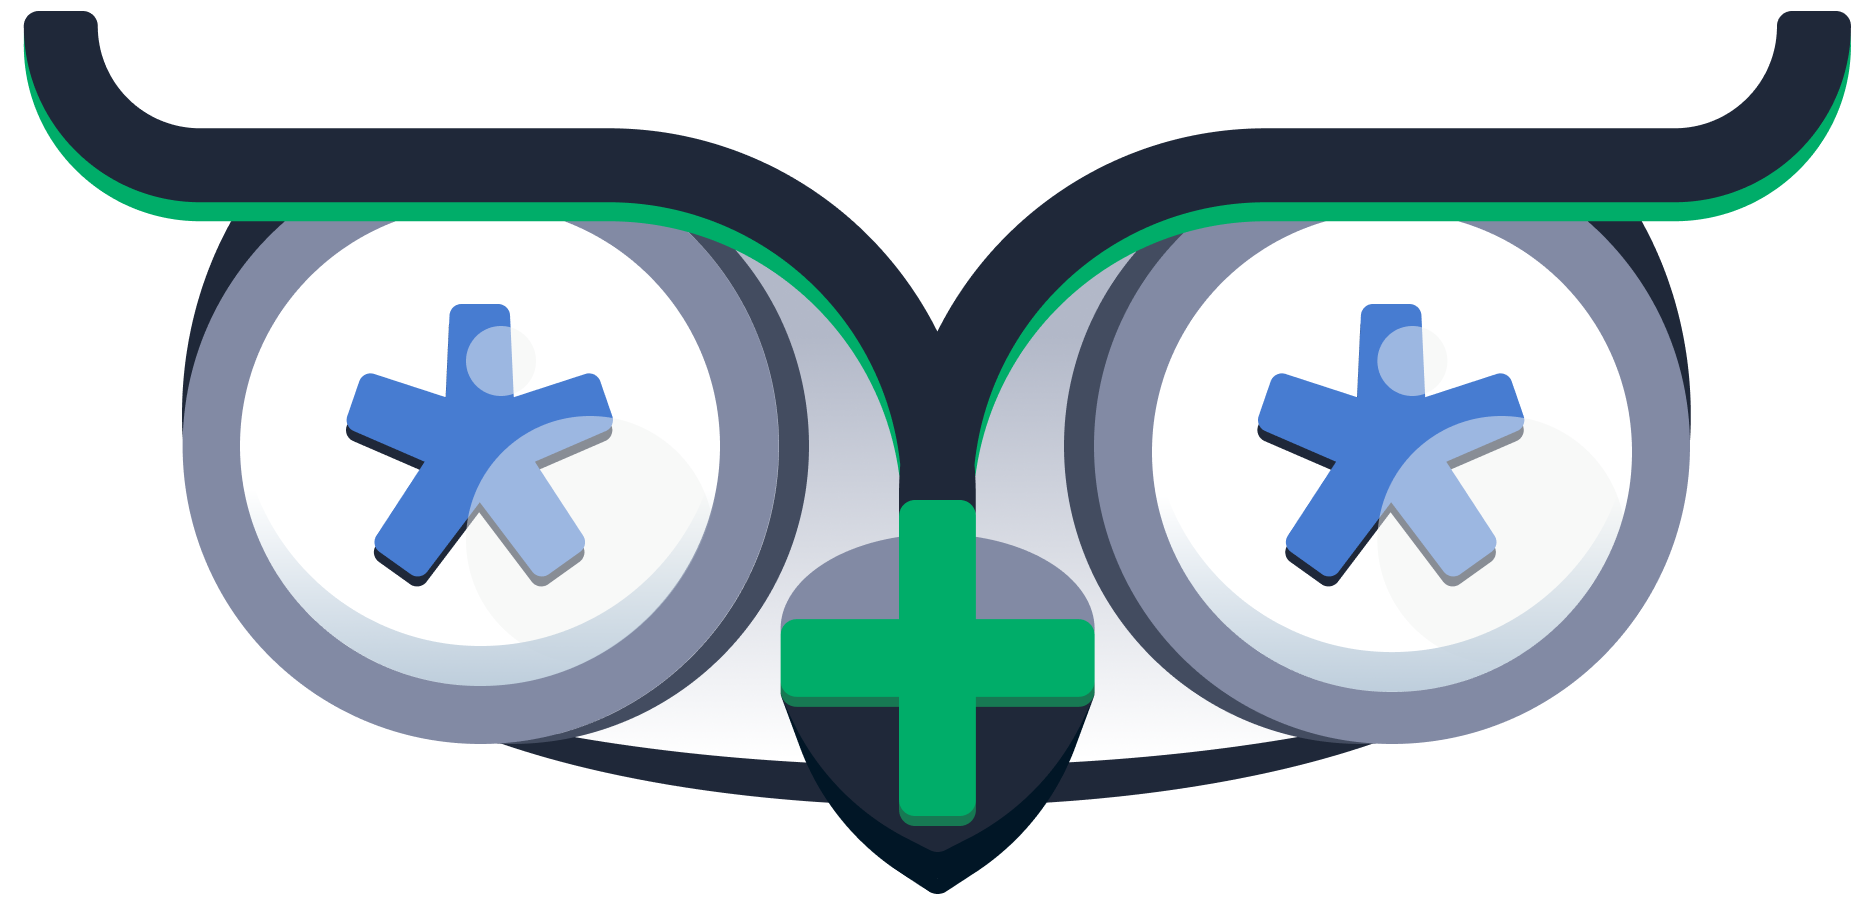
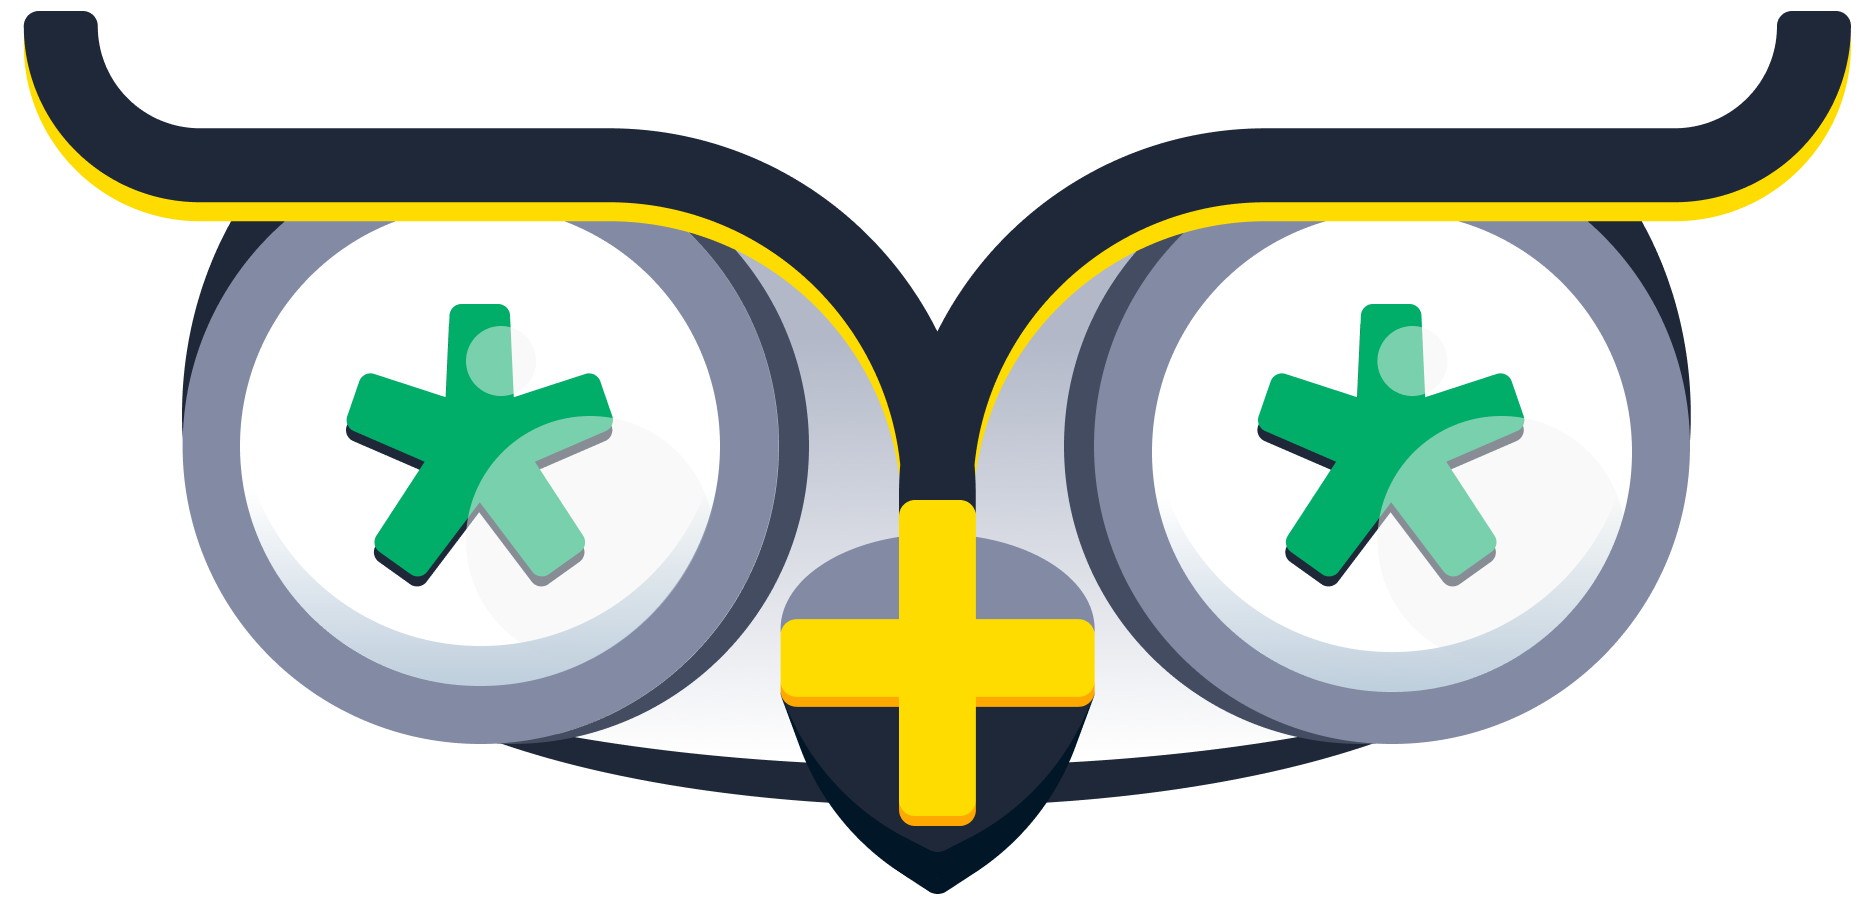
green to yellow

diff --git a/src/styles/theme.scss b/src/styles/theme.scss
@@ -5,16 +5,16 @@ body {
   --header-icon-fill: var(--gray-300);
   --header-icon-stroke: var(--gray-100);
 
-  --selection-bg: var(--green-200);
+  --selection-bg: var(--primary);
   --selection-text: var(--gray-500);
 
-  --blockquote-border: var(--green-200);
-  --footer-icon-stroke-hover: var(--green-200);
+  --blockquote-border: var(--primary);
+  --footer-icon-stroke-hover: var(--primary);
 
-  --text-link: var(--green-200);
-  --text-code: var(--green-200);
+  --text-link: var(--primary);
+  --text-code: var(--primary);
 
-  --toggle-thumb: var(--green-200);
+  --toggle-thumb: var(--primary);
 }
 
 body.light {
@@ -30,6 +30,9 @@ body.light {
 
   --card-bg: var(--gray-100);
   --card-bg-hover: var(--gray-100);
+
+  --tag-color: var(--black);
+  --tag-bg: var(--primary);
 }
 
 body.dark {
@@ -45,4 +48,7 @@ body.dark {
 
   --card-bg: var(--gray-400);
   --card-bg-hover: var(--gray-400);
+
+  --tag-color: var(--primary);
+  --tag-bg: none;
 }

diff --git a/src/styles/vars.scss b/src/styles/vars.scss
@@ -9,7 +9,8 @@
   --gray-500: #1f2839;
   --gray-600: #011626;
 
-  --green-200: #00ad69;
+  --primary: #f7d708;
+  --secondary: #00ad69;
 
   --sans-serif: proxima-nova, system-ui, -apple-system, BlinkMacSystemFont,
     'Segoe UI', 'Roboto', 'Helvetica Neue', 'Arial', sans-serif;

diff --git a/src/styles/card.scss b/src/styles/card.scss
@@ -82,7 +82,10 @@ a.card__title {
   a:visited,
   a:active {
     text-decoration: none;
-    color: var(--text-link);
+    color: var(--tag-color);
+    padding: 0 0.25rem;
+    border-radius: 0.25rem;
+    background: var(--tag-bg);
 
     &:before {
       content: '#';

diff --git a/src/styles/page.scss b/src/styles/page.scss
@@ -50,7 +50,10 @@
   a:visited,
   a:active {
     text-decoration: none;
-    color: var(--text-link);
+    color: var(--tag-color);
+    background: var(--tag-bg);
+    border-radius: 0.25rem;
+    padding: 0 0.25rem;
 
     &:before {
       content: '#';
